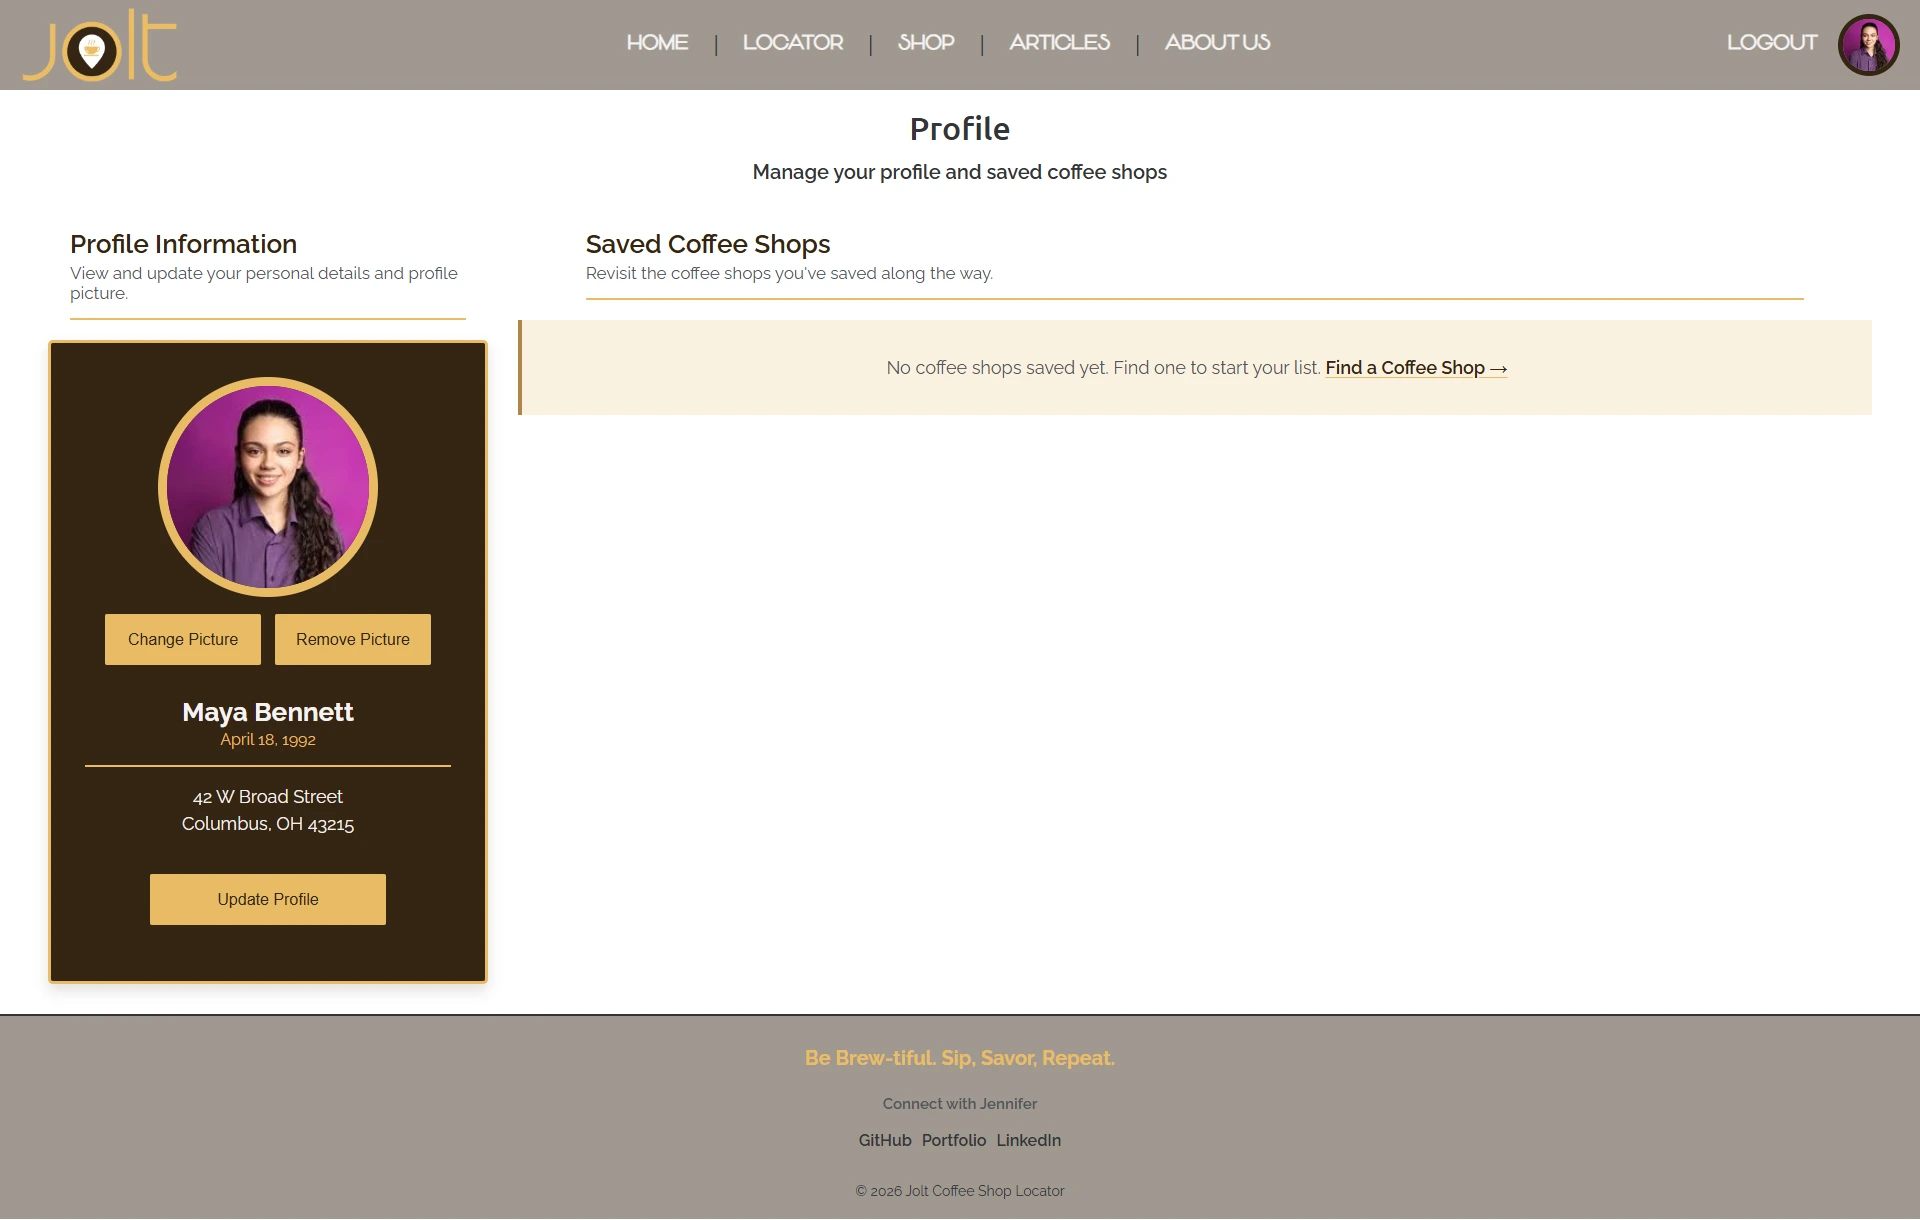
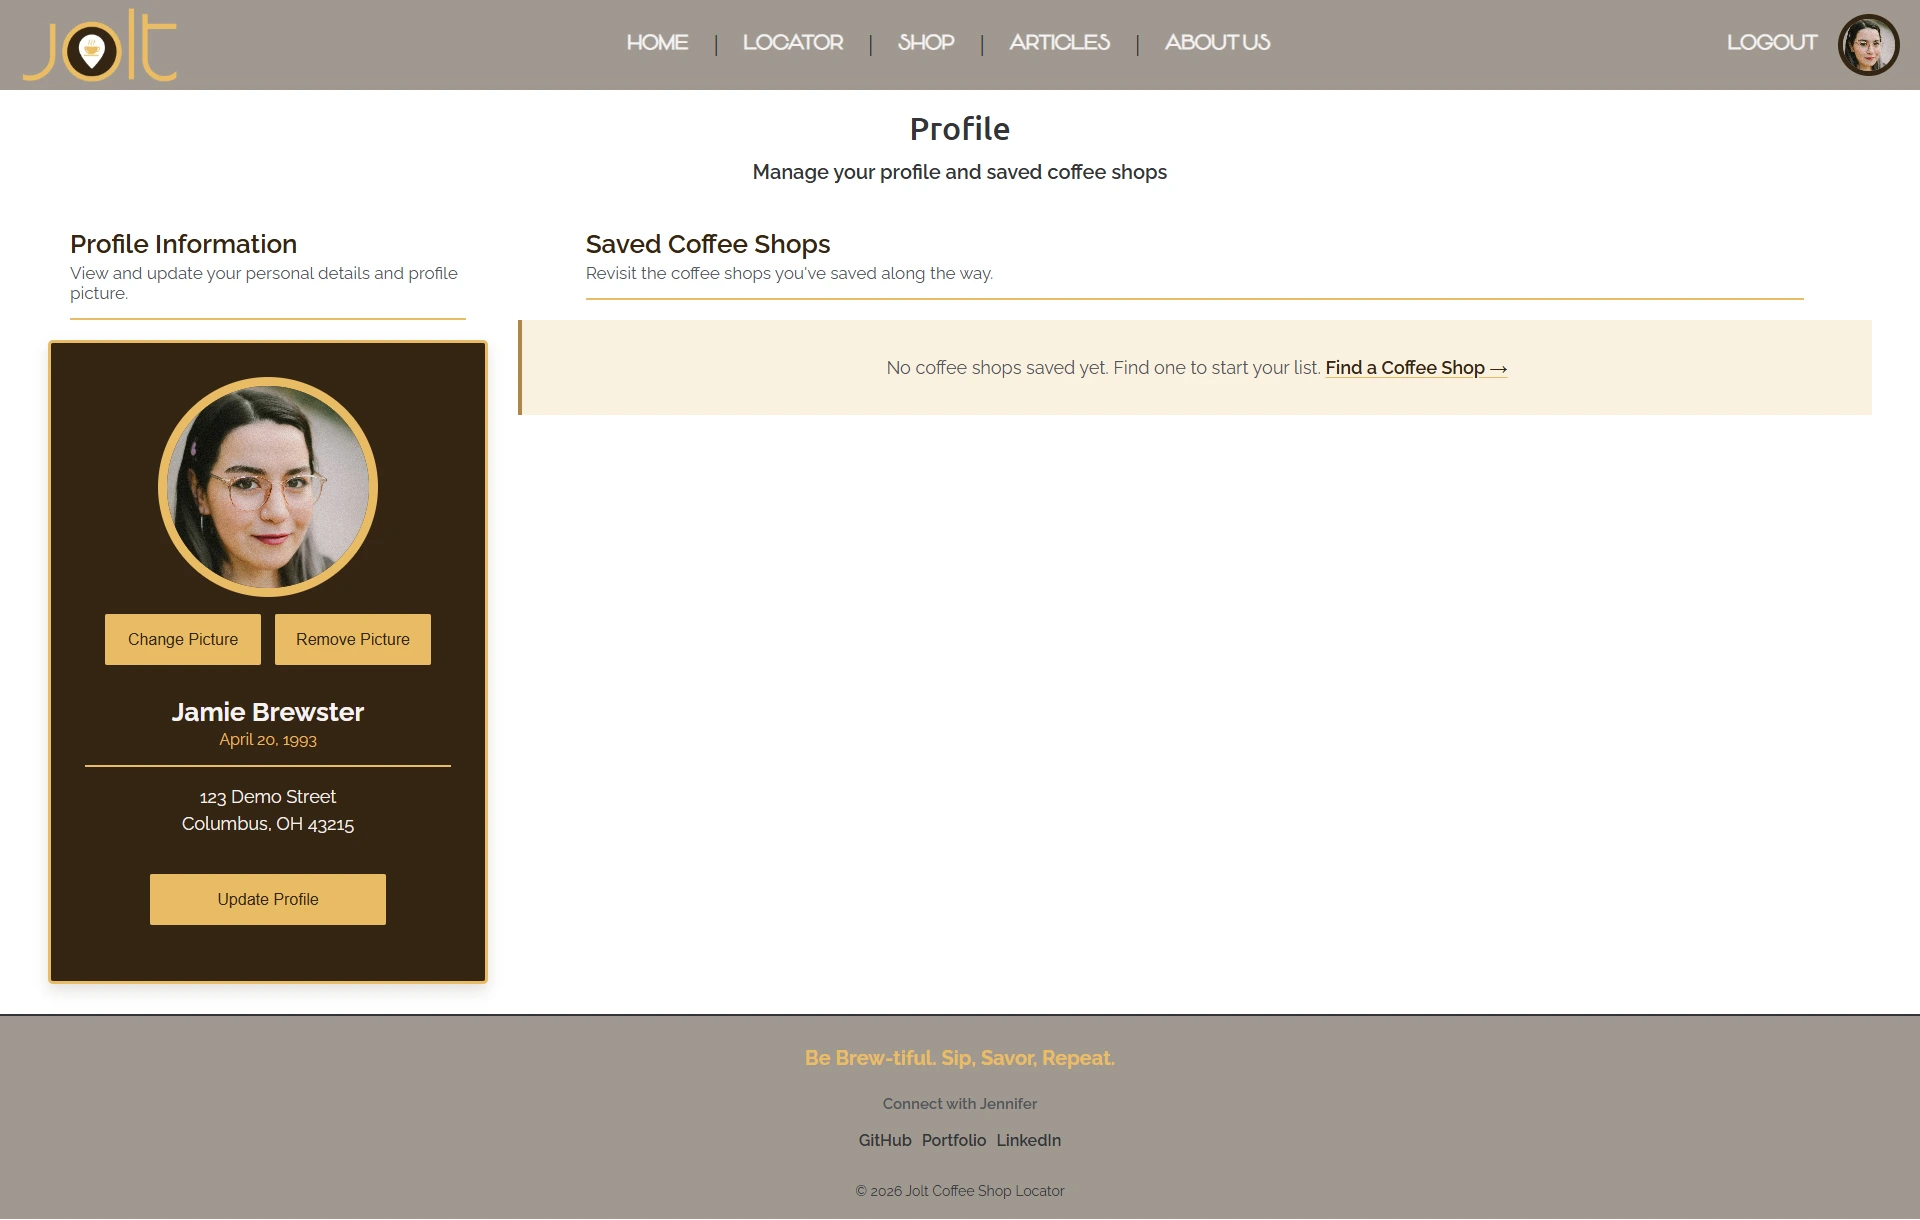
Finalize Jolt live demo and production setup

Changed region(s): [[0.0625, 0.3115, 0.2188, 0.4984], [0.0938, 0.5607, 0.1875, 0.6852], [0.9375, 0.0, 1.0, 0.0623]]

diff --git a/vue/src/views/LoginView.vue b/vue/src/views/LoginView.vue
@@ -89,6 +89,25 @@
 
         </div>
 
+        <!-- Demo Account Information -->
+        <div class="demo-account">
+          <p class="demo-title">Demo Account</p>
+
+          <p>
+            Want to explore Jolt without creating an account?
+          </p>
+
+          <div class="demo-credentials">
+            <span>
+              <strong>Username:</strong> joltdemo
+            </span>
+
+            <span>
+              <strong>Password:</strong> DemoPass123
+            </span>
+          </div>
+        </div>
+
         <!-- Login and Registration Buttons -->
         <div class="button-container">
           <button
@@ -288,6 +307,40 @@ h1 {
   color: rgb(234,189,99);
 }
 
+.demo-account {
+  width: 100%;
+  background-color: rgba(255, 255, 255, .45);
+  border: .1rem solid rgba(53, 37, 19, .55);
+  border-radius: .2rem;
+  font-size: .82rem;
+  line-height: 1.4;
+  text-align: center;
+  padding: .4rem;
+  margin-bottom: .6rem;
+}
+
+.demo-account p {
+  margin: 0;
+}
+
+.demo-title {
+  font-size: .9rem;
+  font-weight: 700;
+  color: rgb(53, 37, 19);
+  margin-bottom: .35rem !important;
+}
+
+.demo-credentials {
+  display: flex;
+  justify-content: center;
+  gap: 1rem;
+  margin-top: .5rem;
+}
+
+.demo-credentials span {
+  white-space: nowrap;
+}
+
 .button-container {
   display: flex;
   flex-direction: column;
@@ -413,6 +466,20 @@ button:disabled {
   .form-input input {
     min-height: 2.75rem;
     font-size: 1rem;
+  }
+
+    .demo-account {
+    font-size: .78rem;
+    padding: .7rem;
+  }
+
+  .demo-credentials {
+    flex-direction: column;
+    gap: .2rem;
+  }
+
+  .demo-credentials span {
+    white-space: normal;
   }
 
 }

diff --git a/vue/src/views/AboutUsView.vue b/vue/src/views/AboutUsView.vue
@@ -20,9 +20,9 @@
         <Jennifer />
       </section>
 
-      <!-- Steven -->
-      <section class="steven">
-        <Steven />
+      <!-- David -->
+      <section class="david">
+        <David />
       </section>
 
       <!-- Naomi -->
@@ -30,10 +30,12 @@
         <Naomi />
       </section>
 
-      <!-- David -->
-      <section class="david">
-        <David />
+      <!-- Steven -->
+      <section class="steven">
+        <Steven />
       </section>
+
+
 
     </main>
 

diff --git a/vue/src/components/home/Carousel.vue b/vue/src/components/home/Carousel.vue
@@ -110,15 +110,6 @@ export default {
       this.currentIndex = (this.currentIndex + 1) % this.images.length;
 
     }
-  },
-
-  mounted() {
-
-    // Preload the carousel images
-    this.images.forEach(image => {
-      const preloadImage = new Image();
-      preloadImage.src = image;
-    });
   }
 };
 </script>

diff --git a/vue/src/views/RegisterView.vue b/vue/src/views/RegisterView.vue
@@ -35,6 +35,7 @@
 
           <!-- Username -->
           <div class="form-input username">
+            <label for="username">Username</label>
             <input
               type="text"
               id="username"

diff --git a/README.md b/README.md
@@ -464,13 +464,33 @@ The actual `.env` file should remain local and should never be committed or shar
 
 ## Live Demo
 
-A live version of Jolt will be available at:
+Jolt is deployed and available at:
+
+**Live Application:** https://jolt.jennifercurtis.me
+
+Visitors can create their own account to explore the full registration and authentication workflow or use the prepared demo account for immediate access.
+
+### Demo Account
 
 ```text
-https://jolt.jennifercurtis.me
+Username: joltdemo
+Password: DemoPass123
 ```
 
-Deployment information and final demo access will be added as the live version is completed.
+The demo account includes a completed sample profile, profile image, and saved coffee shops to demonstrate Jolt's personalized features.
+
+### Production Deployment
+
+The deployed application uses:
+
+- **Frontend:** Vue.js hosted on Namecheap
+- **Backend:** Spring Boot REST API hosted on Render
+- **Database:** PostgreSQL hosted on Neon
+- **External API:** Yelp Fusion API
+
+Production configuration and sensitive credentials are managed through environment variables and are not stored in the repository.
+
+> The backend is hosted on Render's free service tier and may require a short startup period after extended inactivity.
 
 ---
 
